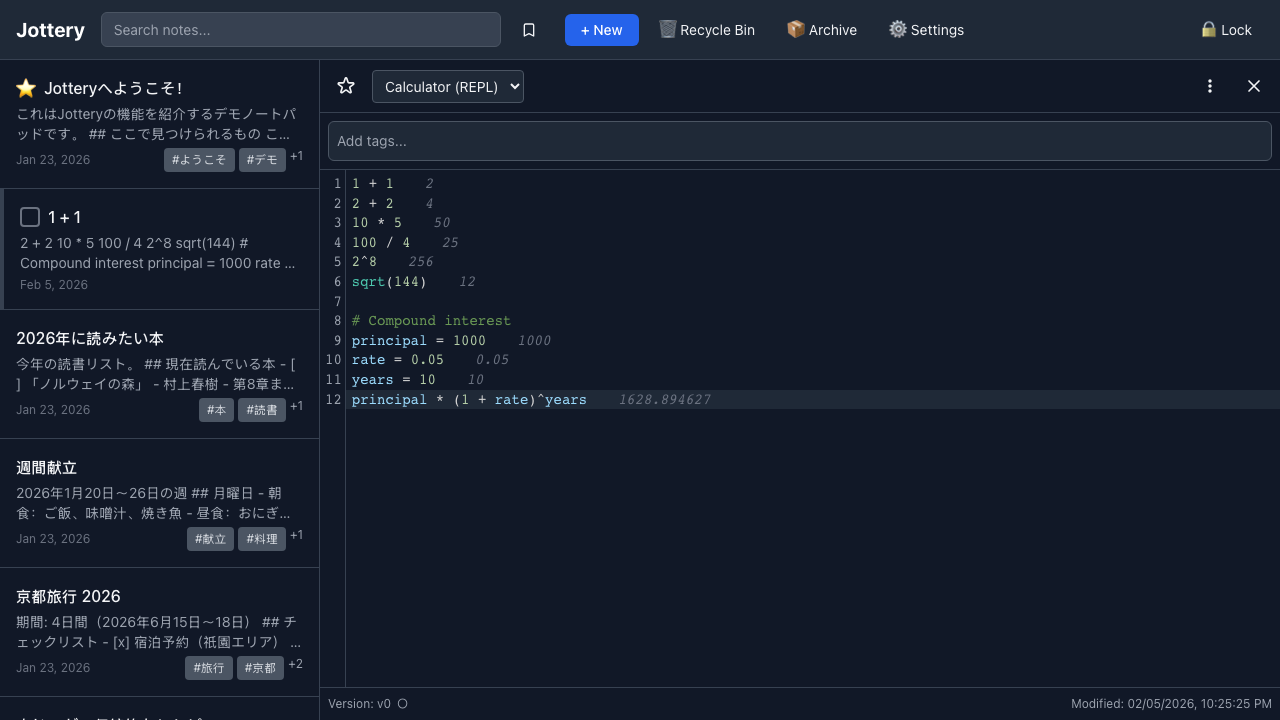
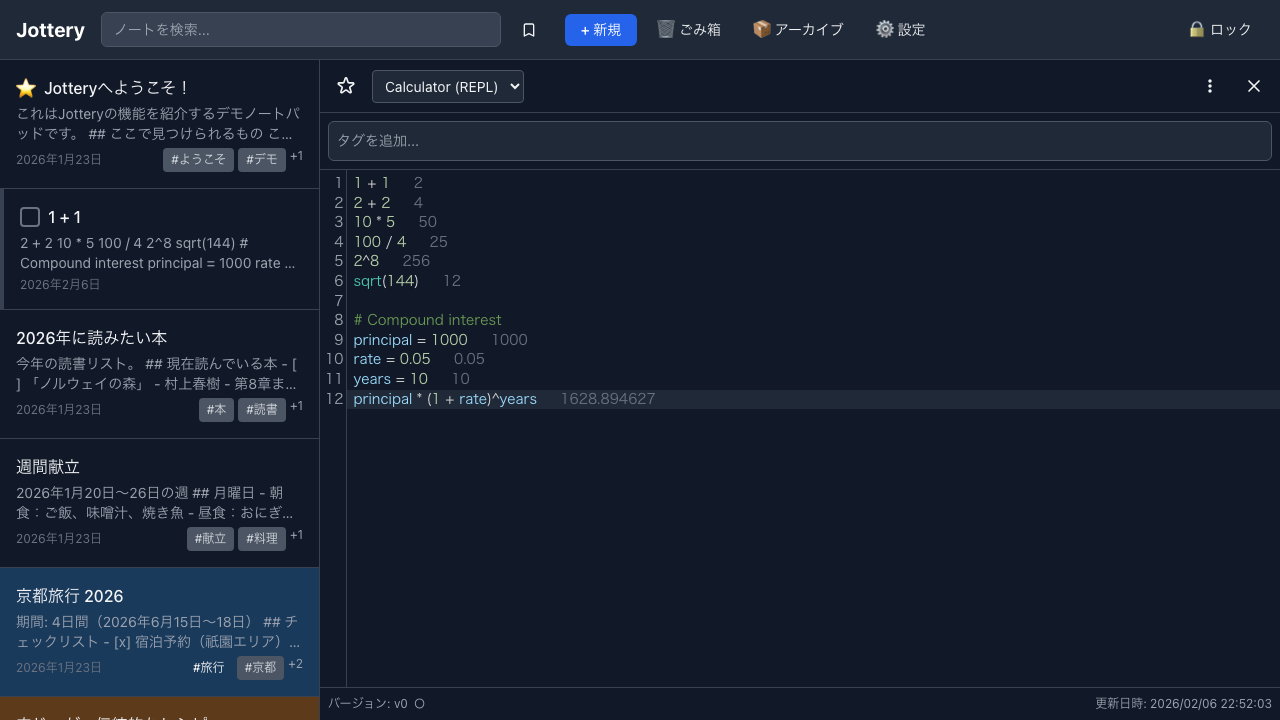
fix(demo): Update Playwright tests for multi-language support
Update button/menu locators to support Japanese and other languages:
- Preview button: Add プレビュー and translations for all languages
- New Note button: Add 新規 and translations for all languages
- Settings button: Add 設定 and translations for all languages
- Hamburger menu: Add メニュー aria-label support

Regenerate Japanese screenshots with correct Japanese UI and notes:
- Preview mode screenshots (01a, 01b)
- Calculator (05)
- Mobile views (06, 07, 08)
- Outliner (09)

diff --git a/demo-generation/playwright/screenshots.spec.ts b/demo-generation/playwright/screenshots.spec.ts
@@ -90,7 +90,7 @@ async function setAppLanguage(page: any, lang: string) {
   const locale = localeMap[lang] || 'en-GB';
 
   // Open settings
-  const settingsButton = page.locator('button').filter({ hasText: /Settings|⚙/i }).first();
+  const settingsButton = page.locator('button').filter({ hasText: /Settings|⚙|設定|Einstellungen|Paramètres|Configuración|Impostazioni|Instellingen|Ustawienia|Ayarlar|Настройки|设置|설정|Ρυθμίσεις/i }).first();
   await settingsButton.waitFor({ state: 'visible', timeout: 10000 });
   await settingsButton.click();
   await page.waitForTimeout(500);
@@ -124,7 +124,7 @@ async function importDemoNotes(page: any, demoFile: string = getDemoNotesFile(LA
   const demoNotesPath = join(process.cwd(), 'demo-generation', demoFile);
 
   // Open settings
-  const settingsButton = page.locator('button').filter({ hasText: /Settings|⚙/i }).first();
+  const settingsButton = page.locator('button').filter({ hasText: /Settings|⚙|設定|Einstellungen|Paramètres|Configuración|Impostazioni|Instellingen|Ustawienia|Ayarlar|Настройки|设置|설정|Ρυθμίσεις/i }).first();
   await settingsButton.waitFor({ state: 'visible', timeout: 10000 });
   await settingsButton.click();
   await page.waitForTimeout(500);
@@ -283,8 +283,8 @@ test.describe('Landing Page Screenshots - Light Mode', () => {
     await firstNote.click();
     await page.waitForTimeout(1000);
 
-    // Click Preview button
-    const previewButton = page.locator('button').filter({ hasText: /Preview/i }).first();
+    // Click Preview button (handle multiple languages)
+    const previewButton = page.locator('button').filter({ hasText: /Preview|プレビュー|Vorschau|Aperçu|Vista previa|Anteprima|Voorvertoning|Podgląd|Önizleme|Предпросмотр|預覽|미리보기|Προεπισκόπηση/i }).first();
     await previewButton.waitFor({ state: 'visible' });
     await previewButton.click();
     await page.waitForTimeout(500);
@@ -314,8 +314,8 @@ test.describe('Landing Page Screenshots - Light Mode', () => {
     await travelNote.click();
     await page.waitForTimeout(1000);
 
-    // Click Preview button
-    const previewButton = page.locator('button').filter({ hasText: /Preview/i }).first();
+    // Click Preview button (handle multiple languages)
+    const previewButton = page.locator('button').filter({ hasText: /Preview|プレビュー|Vorschau|Aperçu|Vista previa|Anteprima|Voorvertoning|Podgląd|Önizleme|Предпросмотр|預覽|미리보기|Προεπισκόπηση/i }).first();
     await previewButton.waitFor({ state: 'visible' });
     await previewButton.click();
     await page.waitForTimeout(500);
@@ -504,7 +504,7 @@ test.describe('Landing Page Screenshots - Light Mode', () => {
     await page.waitForTimeout(1000);
 
     // Create a new note
-    const newButton = page.locator('button').filter({ hasText: /\+ New|New Note/i }).first();
+    const newButton = page.locator('button').filter({ hasText: /\+ New|New Note|\+ 新規|新規|Neu|Nouveau|Nuevo|Nuovo|Nieuw|Nowy|Yeni|Новый|新建|새 노트|Νέο/i }).first();
     await newButton.click();
     await page.waitForTimeout(1000);
 
@@ -659,8 +659,8 @@ test.describe('Landing Page Screenshots - Dark Mode', () => {
     await firstNote.click();
     await page.waitForTimeout(1000);
 
-    // Click Preview button
-    const previewButton = page.locator('button').filter({ hasText: /Preview/i }).first();
+    // Click Preview button (handle multiple languages)
+    const previewButton = page.locator('button').filter({ hasText: /Preview|プレビュー|Vorschau|Aperçu|Vista previa|Anteprima|Voorvertoning|Podgląd|Önizleme|Предпросмотр|預覽|미리보기|Προεπισκόπηση/i }).first();
     await previewButton.waitFor({ state: 'visible' });
     await previewButton.click();
     await page.waitForTimeout(500);
@@ -689,8 +689,8 @@ test.describe('Landing Page Screenshots - Dark Mode', () => {
     await travelNote.click();
     await page.waitForTimeout(1000);
 
-    // Click Preview button
-    const previewButton = page.locator('button').filter({ hasText: /Preview/i }).first();
+    // Click Preview button (handle multiple languages)
+    const previewButton = page.locator('button').filter({ hasText: /Preview|プレビュー|Vorschau|Aperçu|Vista previa|Anteprima|Voorvertoning|Podgląd|Önizleme|Предпросмотр|預覽|미리보기|Προεπισκόπηση/i }).first();
     await previewButton.waitFor({ state: 'visible' });
     await previewButton.click();
     await page.waitForTimeout(500);
@@ -877,7 +877,7 @@ test.describe('Landing Page Screenshots - Dark Mode', () => {
     await page.waitForTimeout(1000);
 
     // Create a new note
-    const newButton = page.locator('button').filter({ hasText: /\+ New|New Note/i }).first();
+    const newButton = page.locator('button').filter({ hasText: /\+ New|New Note|\+ 新規|新規|Neu|Nouveau|Nuevo|Nuovo|Nieuw|Nowy|Yeni|Новый|新建|새 노트|Νέο/i }).first();
     await newButton.click();
     await page.waitForTimeout(1000);
 
@@ -949,7 +949,7 @@ async function importDemoNotesMobile(page: any, demoFile: string = getDemoNotesF
   const demoNotesPath = join(process.cwd(), 'demo-generation', demoFile);
 
   // On mobile, settings is behind the hamburger menu
-  const hamburgerMenu = page.locator('button[aria-label="Menu"], button.hamburger-menu, [aria-label="Toggle menu"]').first();
+  const hamburgerMenu = page.locator('button[aria-label="Menu"], button[aria-label="メニュー"], button[aria-label="Menü"], button[aria-label="Menú"], button.hamburger-menu, [aria-label="Toggle menu"]').first();
   const isHamburgerVisible = await hamburgerMenu.isVisible().catch(() => false);
 
   if (isHamburgerVisible) {
@@ -958,7 +958,7 @@ async function importDemoNotesMobile(page: any, demoFile: string = getDemoNotesF
   }
 
   // Now find and click Settings
-  const settingsButton = page.locator('button').filter({ hasText: /Settings|⚙/i }).first();
+  const settingsButton = page.locator('button').filter({ hasText: /Settings|⚙|設定|Einstellungen|Paramètres|Configuración|Impostazioni|Instellingen|Ustawienia|Ayarlar|Настройки|设置|설정|Ρυθμίσεις/i }).first();
   await settingsButton.waitFor({ state: 'visible', timeout: 10000 });
   await settingsButton.click();
   await page.waitForTimeout(500);
@@ -1018,7 +1018,7 @@ async function setAppLanguageMobile(page: any, lang: string) {
   const locale = localeMap[lang] || 'en-GB';
 
   // On mobile, settings is behind the hamburger menu
-  const hamburgerMenu = page.locator('button[aria-label="Menu"], button.hamburger-menu, [aria-label="Toggle menu"]').first();
+  const hamburgerMenu = page.locator('button[aria-label="Menu"], button[aria-label="メニュー"], button[aria-label="Menü"], button[aria-label="Menú"], button.hamburger-menu, [aria-label="Toggle menu"]').first();
   const isHamburgerVisible = await hamburgerMenu.isVisible().catch(() => false);
 
   if (isHamburgerVisible) {
@@ -1027,7 +1027,7 @@ async function setAppLanguageMobile(page: any, lang: string) {
   }
 
   // Open settings
-  const settingsButton = page.locator('button').filter({ hasText: /Settings|⚙/i }).first();
+  const settingsButton = page.locator('button').filter({ hasText: /Settings|⚙|設定|Einstellungen|Paramètres|Configuración|Impostazioni|Instellingen|Ustawienia|Ayarlar|Настройки|设置|설정|Ρυθμίσεις/i }).first();
   await settingsButton.waitFor({ state: 'visible', timeout: 10000 });
   await settingsButton.click();
   await page.waitForTimeout(500);
@@ -1175,7 +1175,7 @@ test.describe('Landing Page Screenshots - Mobile Light', () => {
 
     // Fallback: find blue button with + or the text version
     if (!newButton) {
-      newButton = page.locator('button').filter({ hasText: /^\+$|New Note|\+ New/i }).first();
+      newButton = page.locator('button').filter({ hasText: /^\+$|New Note|\+ New|\+ 新規|新規|Neu|Nouveau|Nuevo|Nuovo|Nieuw|Nowy|Yeni|Новый|新建|새 노트|Νέο/i }).first();
     }
 
     await newButton.click();
@@ -1365,7 +1365,7 @@ test.describe('Landing Page Screenshots - Mobile Dark', () => {
 
     // Fallback: find blue button with + or the text version
     if (!newButton) {
-      newButton = page.locator('button').filter({ hasText: /^\+$|New Note|\+ New/i }).first();
+      newButton = page.locator('button').filter({ hasText: /^\+$|New Note|\+ New|\+ 新規|新規|Neu|Nouveau|Nuevo|Nuovo|Nieuw|Nowy|Yeni|Новый|新建|새 노트|Νέο/i }).first();
     }
 
     await newButton.click();
@@ -1479,7 +1479,7 @@ test.describe('Landing Page Screenshots - Outliner Light', () => {
     await page.waitForTimeout(1000);
 
     // Create a new note
-    const newButton = page.locator('button').filter({ hasText: /\+ New|New Note/i }).first();
+    const newButton = page.locator('button').filter({ hasText: /\+ New|New Note|\+ 新規|新規|Neu|Nouveau|Nuevo|Nuovo|Nieuw|Nowy|Yeni|Новый|新建|새 노트|Νέο/i }).first();
     await newButton.click();
     await page.waitForTimeout(1000);
 
@@ -1632,7 +1632,7 @@ test.describe('Landing Page Screenshots - Outliner Dark', () => {
     await page.waitForTimeout(1000);
 
     // Create a new note
-    const newButton = page.locator('button').filter({ hasText: /\+ New|New Note/i }).first();
+    const newButton = page.locator('button').filter({ hasText: /\+ New|New Note|\+ 新規|新規|Neu|Nouveau|Nuevo|Nuovo|Nieuw|Nowy|Yeni|Новый|新建|새 노트|Νέο/i }).first();
     await newButton.click();
     await page.waitForTimeout(1000);
 
@@ -1783,7 +1783,7 @@ test.describe('Landing Page Screenshots - Greek UI Light', () => {
     await page.waitForTimeout(1000);
 
     // Change language to Greek via settings
-    const settingsButton = page.locator('button').filter({ hasText: /Settings|⚙/i }).first();
+    const settingsButton = page.locator('button').filter({ hasText: /Settings|⚙|設定|Einstellungen|Paramètres|Configuración|Impostazioni|Instellingen|Ustawienia|Ayarlar|Настройки|设置|설정|Ρυθμίσεις/i }).first();
     await settingsButton.waitFor({ state: 'visible', timeout: 10000 });
     await settingsButton.click();
     await page.waitForTimeout(500);
@@ -1883,7 +1883,7 @@ test.describe('Landing Page Screenshots - Greek UI Dark', () => {
     await page.waitForTimeout(1000);
 
     // Change language to Greek via settings
-    const settingsButton = page.locator('button').filter({ hasText: /Settings|⚙/i }).first();
+    const settingsButton = page.locator('button').filter({ hasText: /Settings|⚙|設定|Einstellungen|Paramètres|Configuración|Impostazioni|Instellingen|Ustawienia|Ayarlar|Настройки|设置|설정|Ρυθμίσεις/i }).first();
     await settingsButton.waitFor({ state: 'visible', timeout: 10000 });
     await settingsButton.click();
     await page.waitForTimeout(500);
